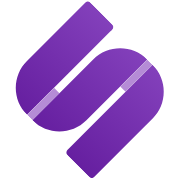
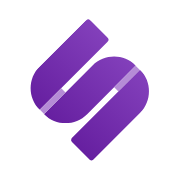
ホーム画面に置いたとき、Streets をアプリとして開けるようにする
Web App Manifest を置き、ブラウザの枠なしで開くようにする。
ホーム画面のアイコンはマークが端まで届いて大きく見えたので、8 割の大きさにして周りを空ける。
Android が丸などに切り抜いても欠けない大きさで、同じ画像を maskable にも使う。

Claude-Session: https://claude.ai/code/session_016UNhqJ6bvXvVcxCNBEGFPy

Changed region(s): [[0.0833, 0.0, 0.9167, 1.0]]

diff --git a/apps/web/index.html b/apps/web/index.html
@@ -5,7 +5,11 @@
     <meta name="viewport" content="width=device-width, initial-scale=1.0" />
     <title>Streets | カラム型の Nostr クライアント</title>
     <link rel="icon" type="image/svg+xml" href="/favicon.svg" />
-    <!-- iOS はホーム画面のアイコンに SVG を使わず、無ければ頭文字を描く。透明な所は黒く塗られるので白で埋めてある -->
+    <link rel="manifest" href="/manifest.webmanifest" />
+    <!--
+      iOS はホーム画面のアイコンに SVG を使わず、無ければ頭文字を描く。透明な所は黒く塗られるので白で埋めてある。
+      iOS が角を丸めるので、マークは 8 割の大きさにして周りを空ける（Android の maskable の切り抜きに収まる大きさと同じ）
+    -->
     <link rel="apple-touch-icon" href="/apple-touch-icon.png" />
     <!-- 無いと、ホーム画面に置くときの名前の候補が title の全文になる -->
     <meta name="apple-mobile-web-app-title" content="Streets" />
